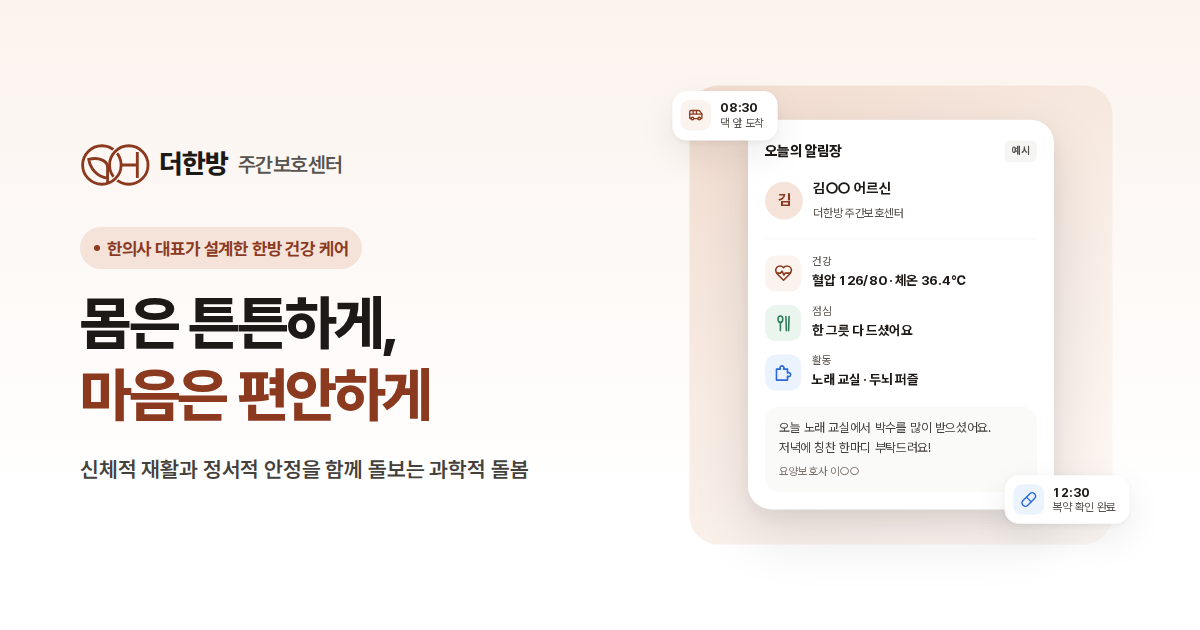
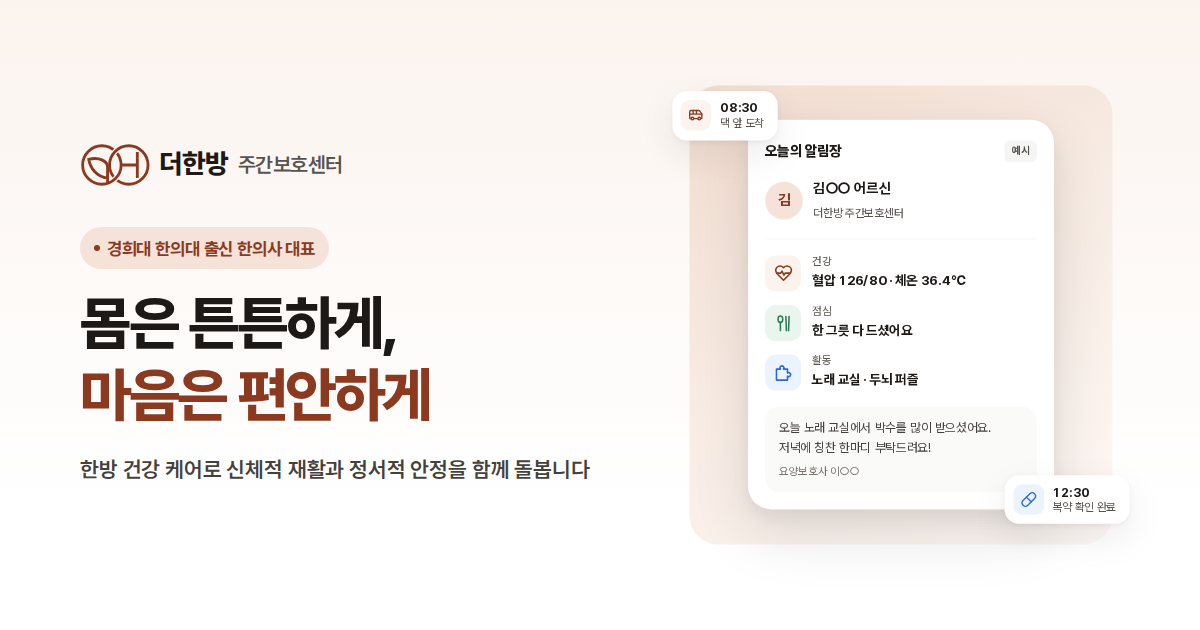
Mention the director's Kyung Hee College of Korean Medicine background
The director is a graduate of 경희대학교 한의과대학. Say so in the hero
copy, as a badge under the care-philosophy heading, in the 한방 건강
케어 FAQ answer, the footer tagline, the page description, and the
share image. The university emblem stays off the site; only the text
credential is used.

Claude-Session: https://claude.ai/code/session_015G483Gf5dAxBmUT3FP9Myg

Changed region(s): [[0.0617, 0.7238, 0.4933, 0.7841], [0.0925, 0.3619, 0.3083, 0.4222]]

diff --git a/public/daycare/index.html b/public/daycare/index.html
@@ -4,13 +4,13 @@
 <meta charset="utf-8">
 <meta name="viewport" content="width=device-width, initial-scale=1, viewport-fit=cover">
 <title>더한방 주간보호센터</title>
-<meta name="description" content="한의사 대표가 설계한 한방 건강 케어. 더한방 주간보호센터는 어르신의 신체적 재활과 정서적 안정을 함께 돌보는 ‘과학적 돌봄’을 지향합니다. 장기요양 1~5등급·인지지원등급 어르신 이용, 차량 송영.">
+<meta name="description" content="경희대 한의대 출신 한의사 대표가 설계한 한방 건강 케어. 더한방 주간보호센터는 어르신의 신체적 재활과 정서적 안정을 함께 돌보는 ‘과학적 돌봄’을 지향합니다. 장기요양 1~5등급·인지지원등급 어르신 이용, 차량 송영.">
 <meta name="theme-color" content="#FFFFFF">
 <meta property="og:type" content="website">
 <meta property="og:locale" content="ko_KR">
 <meta property="og:site_name" content="더한방 주간보호센터">
 <meta property="og:title" content="더한방 주간보호센터 · 한의사 대표가 설계한 한방 건강 케어">
-<meta property="og:description" content="어르신의 신체적 재활과 정서적 안정을 함께 돌보는 과학적 돌봄. 차량 송영 · 식사 · 건강 관리 · 인지 활동">
+<meta property="og:description" content="경희대 한의대 출신 한의사 대표의 한의학적 전문성을 바탕으로 어르신의 신체적 재활과 정서적 안정을 함께 돌봅니다. 차량 송영 · 식사 · 건강 관리 · 인지 활동">
 <meta property="og:url" content="https://memoryzkr-hash.github.io/memoryz/daycare/">
 <meta property="og:image" content="https://memoryzkr-hash.github.io/memoryz/daycare/og.png">
 <meta property="og:image:width" content="1200">
@@ -246,6 +246,8 @@ h1,h2,h3,h4{color:var(--gray-900);text-wrap:balance}
 .statement{max-width:48rem;margin:0 auto clamp(2.5rem,5vw,3.5rem);text-align:center}
 .statement-mark{display:block;width:88px;height:55px;margin:0 auto 1.4rem;color:var(--primary)}
 .statement h2{margin-top:.6rem;font-size:clamp(1.65rem,1.12rem + 2vw,2.6rem);font-weight:800;line-height:1.32;letter-spacing:-.04em}
+.credential{display:inline-flex;align-items:center;gap:.5rem;margin-top:1.1rem;padding:.5rem 1.05rem;border-radius:999px;background:var(--white);box-shadow:inset 0 0 0 1px var(--primary-100);font-size:.95rem;font-weight:700;letter-spacing:-.02em;color:var(--gray-800)}
+.credential svg{flex:none;width:20px;height:20px;color:var(--primary)}
 .statement-text{margin-top:1.2rem;font-size:clamp(1.05rem,.98rem + .35vw,1.25rem);line-height:1.75;color:var(--gray-700)}
 .statement-text strong{color:var(--primary)}
 
@@ -528,6 +530,7 @@ textarea.input{min-height:7.5rem;resize:vertical;line-height:1.6}
   <symbol id="i-calc" viewBox="0 0 24 24"><g fill="none" stroke="currentColor" stroke-width="2" stroke-linecap="round" stroke-linejoin="round"><rect x="4" y="2" width="16" height="20" rx="2"/><path d="M8 6h8M8 11h.01M12 11h.01M16 11h.01M8 15h.01M12 15h.01M16 15h.01M8 19h.01M12 19h.01M16 19h.01"/></g></symbol>
   <symbol id="i-shield" viewBox="0 0 24 24"><g fill="none" stroke="currentColor" stroke-width="2" stroke-linecap="round" stroke-linejoin="round"><path d="M12 22s8-4 8-10V5l-8-3-8 3v7c0 6 8 10 8 10z"/><path d="M9 12l2 2 4-4"/></g></symbol>
   <symbol id="i-clipboard" viewBox="0 0 24 24"><g fill="none" stroke="currentColor" stroke-width="2" stroke-linecap="round" stroke-linejoin="round"><path d="M16 4h2a2 2 0 0 1 2 2v14a2 2 0 0 1-2 2H6a2 2 0 0 1-2-2V6a2 2 0 0 1 2-2h2"/><rect x="8" y="2" width="8" height="4" rx="1"/><path d="M9 14l2 2 4-4"/></g></symbol>
+  <symbol id="i-grad" viewBox="0 0 24 24"><g fill="none" stroke="currentColor" stroke-width="2" stroke-linecap="round" stroke-linejoin="round"><path d="M2 9l10-5 10 5-10 5z"/><path d="M6 11v5c0 1.7 2.7 3 6 3s6-1.3 6-3v-5M22 9v6"/></g></symbol>
   <symbol id="i-book" viewBox="0 0 24 24"><g fill="none" stroke="currentColor" stroke-width="2" stroke-linecap="round" stroke-linejoin="round"><path d="M2 3h6a4 4 0 0 1 4 4v14a3 3 0 0 0-3-3H2z"/><path d="M22 3h-6a4 4 0 0 0-4 4v14a3 3 0 0 1 3-3h7z"/></g></symbol>
 </svg>
 
@@ -555,7 +558,7 @@ textarea.input{min-height:7.5rem;resize:vertical;line-height:1.6}
       <div>
         <span class="badge">한의사 대표가 설계한 한방 건강 케어</span>
         <h1>몸은 튼튼하게,<br><em>마음은 편안하게</em></h1>
-        <p class="hero-sub">더한방 주간보호센터는 한의학적 전문성을 바탕으로 어르신의 신체적 재활과 정서적 안정을 함께 돌봐요. 아침저녁으로 차량이 댁 앞까지 모시러 갑니다.</p>
+        <p class="hero-sub">경희대 한의대 출신 한의사 대표의 한의학적 전문성을 바탕으로, 어르신의 신체적 재활과 정서적 안정을 함께 돌봐요. 아침저녁으로 차량이 댁 앞까지 모시러 갑니다.</p>
         <div class="hero-cta">
           <a class="btn btn-primary btn-lg" href="#contact">무료 상담 신청하기</a>
           <a class="btn btn-outline btn-lg" href="tel:0000000000"><svg class="ico" aria-hidden="true"><use href="#i-phone"/></svg><span class="num">000-000-0000</span></a>
@@ -603,6 +606,7 @@ textarea.input{min-height:7.5rem;resize:vertical;line-height:1.6}
         <svg class="statement-mark" aria-hidden="true"><use href="#logo-mark"/></svg>
         <span class="eyebrow">더한방의 돌봄</span>
         <h2 id="philosophy-title">한의사 대표가 설계한<br>‘과학적 돌봄’</h2>
+        <p class="credential"><svg aria-hidden="true"><use href="#i-grad"/></svg>경희대학교 한의과대학 출신 한의사 대표</p>
         <p class="statement-text">한의사 대표의 한의학적 전문성을 바탕으로 어르신의 <strong>신체적 재활</strong>과 <strong>정서적 안정</strong>을 함께 케어해 드리는 ‘과학적 돌봄’을 지향합니다.</p>
       </div>
       <ul class="grid-3">
@@ -772,7 +776,7 @@ textarea.input{min-height:7.5rem;resize:vertical;line-height:1.6}
       <div class="faq">
         <details>
           <summary><span><span class="q">Q</span>한방 건강 케어는 무엇인가요?</span><svg aria-hidden="true"><use href="#i-chevron"/></svg></summary>
-          <div class="a"><p>한의사 대표가 한의학적 전문성을 바탕으로 설계한 돌봄 방식이에요. 어르신의 신체적 재활과 정서적 안정을 함께 살피는 ‘과학적 돌봄’을 지향해요.</p><p>어떤 프로그램으로 진행되는지는 상담 때 자세히 안내해 드려요.</p></div>
+          <div class="a"><p>경희대 한의대 출신 한의사 대표가 한의학적 전문성을 바탕으로 설계한 돌봄 방식이에요. 어르신의 신체적 재활과 정서적 안정을 함께 살피는 ‘과학적 돌봄’을 지향해요.</p><p>어떤 프로그램으로 진행되는지는 상담 때 자세히 안내해 드려요.</p></div>
         </details>
         <details>
           <summary><span><span class="q">Q</span>요양원과 무엇이 다른가요?</span><svg aria-hidden="true"><use href="#i-chevron"/></svg></summary>
@@ -916,7 +920,7 @@ textarea.input{min-height:7.5rem;resize:vertical;line-height:1.6}
   <div class="container">
     <a class="logo" href="#top"><svg aria-hidden="true"><use href="#logo-mark"/></svg>더한방<span>주간보호센터</span></a>
     <div class="footer-info">
-      <p>한의사 대표가 설계한 한방 건강 케어</p>
+      <p>경희대 한의대 출신 한의사 대표가 설계한 한방 건강 케어</p>
       <p>노인장기요양기관(주야간보호)<i></i>대표 ○○○<i></i>사업자등록번호 ○○○-○○-○○○○○</p>
       <p>○○시 ○○구 ○○로 00, 0층<i></i>전화 <a class="nowrap" href="tel:0000000000">000-000-0000</a><i></i><a href="https://blog.naver.com/thehanbang0157" target="_blank" rel="noopener">네이버 블로그</a></p>
     </div>
